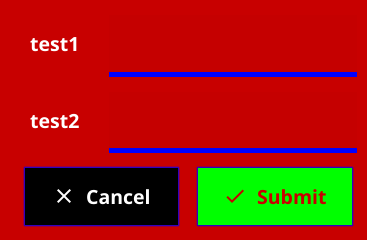
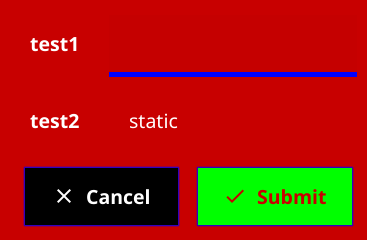
Fix issue where non-disablable form items would not update label colour
Fixes #2810

Changed region(s): [[0.2997, 0.6125, 0.9891, 0.6417], [0.3597, 0.4667, 0.4796, 0.5542]]

diff --git a/widget/form_test.go b/widget/form_test.go
@@ -132,7 +132,7 @@ func TestForm_ChangeTheme(t *testing.T) {
 	form := &Form{
 		Items: []*FormItem{
 			{Text: "test1", Widget: NewEntry()},
-			{Text: "test2", Widget: NewEntry()},
+			{Text: "test2", Widget: NewLabel("static")},
 		},
 		OnSubmit: func() {}, OnCancel: func() {}}
 	w := test.NewWindow(form)

diff --git a/widget/form.go b/widget/form.go
@@ -271,6 +271,8 @@ func (f *Form) updateLabels() {
 			} else {
 				l.Color = theme.ForegroundColor()
 			}
+		} else {
+			l.Color = theme.ForegroundColor()
 		}
 
 		l.Text = item.Text
